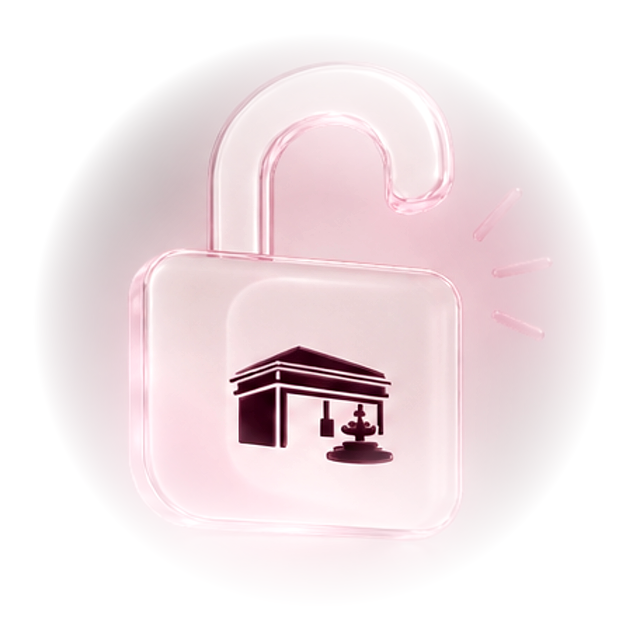
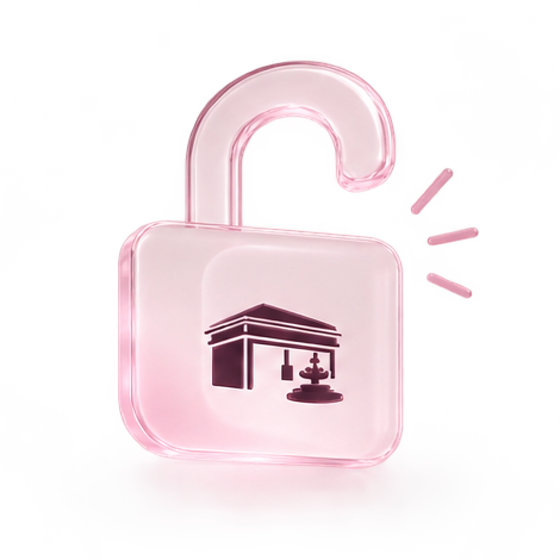
feat: switch the whole screen dark on arrival, and stop mangling the mark
Two corrections.

The dark treatment stopped at the stage: the app bar, the tab rail and the
canvas under the cards all stayed light, so it read as one tall banner
inside a light app rather than as the app changing state. The frame goes
dark now -- bar, rail, screen and cards -- reached through
`:has(.unlocked)` so it cannot touch anything else. It is the only screen
that does this, which is what makes it mean anything. DESIGN.md reserves the
single inverted surface for the folio total; this is a deliberate second,
scoped, on the same licence the accent already has here.

And the mark was ugly, because I had processed it into mud. The render is
lit for a light page -- a bright ground of its own, a dark glyph inside the
glass -- so keying that ground out left a halo, and crushing the midtones to
kill the halo took the life out of the glass with it. It is cut square and
otherwise untouched now, and the CSS rounds and glows it: the ground becomes
an app-icon tile instead of something to fight, which is what the reference
was doing all along.

The lockup is an inline SVG that takes `color`, so the filter aimed at `img`
did nothing to it and the wordmark stayed plum on plum.

Changed region(s): [[0.0911, 0.0911, 0.9107, 0.85], [0.3643, 0.5464, 0.6375, 0.7286]]

diff --git a/src/components/features/guest-app/experiments/experiments.css b/src/components/features/guest-app/experiments/experiments.css
@@ -309,46 +309,82 @@
 .unlocked__hero { margin-bottom: 6px; }
 
 /*
-  The stage: a dark screen with one glow, one graphic, one thing to do.
+  The whole screen changes state.
 
-  DESIGN.md reserves the single inverted surface for the folio total. This is
-  a deliberate second, scoped to this screen alone -- the same licence the
-  accent already has here and nowhere else. A moment of arrival is the one
-  place in a task-first app where the screen is allowed to be the point.
+  Not a dark hero with the app's light canvas carrying on beneath it -- the
+  chrome goes too, so the moment reads as the app switching mode rather than
+  as one tall banner. It is the only screen that does this, which is what
+  makes it mean something.
+
+  DESIGN.md reserves the single inverted surface for the folio total, so this
+  is a deliberate second, and it is scoped to `:has(.unlocked)` so it cannot
+  reach any other screen. Same licence the accent already has here: a moment
+  of arrival is the one place in a task-first app where the screen is allowed
+  to be the point.
 */
+.guest-device:has(.unlocked),
+.guest-screen:has(.unlocked) {
+  background:
+    radial-gradient(84% 46% at 50% 16%, oklch(0.46 0.15 348 / 0.58), transparent 70%),
+    radial-gradient(62% 36% at 82% 4%, oklch(0.58 0.16 338 / 0.3), transparent 72%),
+    linear-gradient(180deg, oklch(0.19 0.028 320), oklch(0.105 0.014 300) 58%);
+}
+/* The bar and the tab rail are outside the screen component, so they are
+   reached by looking down from the frame rather than up from the content. */
+.guest-device:has(.unlocked) .guest-appbar {
+  background: transparent;
+  border-bottom-color: transparent;
+  color: oklch(1 0 0);
+}
+/* The lockup is an inline SVG taking `color`, not an image -- a filter aimed
+   at `img` did nothing to it. */
+.guest-device:has(.unlocked) .guest-brand { color: oklch(1 0 0); }
+.guest-device:has(.unlocked) .guest-appbar .guest-tag,
+.guest-device:has(.unlocked) .guest-appbar [class*='experiment'] {
+  background: oklch(1 0 0 / 0.14);
+  color: oklch(1 0 0);
+}
+.guest-device:has(.unlocked) .guest-bottom-nav {
+  background: oklch(0.105 0.014 300 / 0.92);
+  border-top-color: oklch(1 0 0 / 0.1);
+  color: oklch(1 0 0 / 0.62);
+}
+.guest-device:has(.unlocked) .guest-bottom-nav button { color: oklch(1 0 0 / 0.6); }
+.guest-device:has(.unlocked) .guest-bottom-nav button[aria-current='page'] { color: oklch(1 0 0); }
+
 .unlocked__stage {
   position: relative;
   display: grid;
-  grid-template-rows: 1fr auto auto;
-  gap: 26px;
+  gap: 24px;
   align-content: center;
   justify-items: center;
-  min-height: 78vh;
-  padding: 40px 22px calc(28px + env(safe-area-inset-bottom));
-  margin-bottom: 8px;
-  overflow: hidden;
+  min-height: 62vh;
+  padding: 26px 22px 8px;
   text-align: center;
   color: oklch(1 0 0);
-  background:
-    radial-gradient(86% 58% at 50% 26%, oklch(0.5 0.16 350 / 0.62), transparent 68%),
-    radial-gradient(60% 40% at 78% 8%, oklch(0.62 0.17 340 / 0.34), transparent 70%),
-    linear-gradient(180deg, oklch(0.2 0.03 320), oklch(0.11 0.016 300) 62%);
 }
 
-/* The graphic. No plate: the render is lit for dark and carries its own
-   glow, and its edges are feathered into transparency so the stage shows
-   through rather than a cut-out square sitting on it. */
+/*
+  An app-icon tile, which is what the reference actually shows: a rounded
+  square mark glowing on a dark ground.
+
+  The render is lit for a light page -- it has a bright ground of its own and
+  a dark glyph inside the glass -- so keying that ground out left a muddy
+  halo, and crushing it took the life out of the glass. Rounding the square
+  and glowing it turns the ground into the tile instead of fighting it.
+*/
 .unlocked__mark {
-  display: grid;
-  place-items: center;
-  align-self: end;
-  width: min(300px, 78%);
+  width: min(176px, 46%);
+  aspect-ratio: 1;
+  border-radius: 27%;
+  overflow: hidden;
+  box-shadow:
+    0 26px 64px oklch(0.4 0.17 344 / 0.5),
+    0 0 0 1px oklch(1 0 0 / 0.16);
 }
-.unlocked__art { width: 100%; height: auto; }
+.unlocked__art { display: block; width: 100%; height: auto; }
 
 .unlocked__say { display: grid; gap: 12px; justify-items: center; }
-/* White, not accentStrong: the ground under it is ink now, and the rule the
-   old colour satisfied was about pink failing on a light surface. */
 .unlocked__title {
   margin: 0;
   font-size: 32px;
@@ -361,32 +397,45 @@
 .unlocked__subtitle {
   margin: 0;
   max-width: 32ch;
-  color: oklch(1 0 0 / 0.82);
+  color: oklch(1 0 0 / 0.8);
   font-size: 15px;
   line-height: 1.5;
   text-wrap: pretty;
 }
 
-.unlocked__go { display: grid; gap: 4px; justify-items: center; width: 100%; }
+.unlocked__go { display: grid; gap: 2px; justify-items: center; width: 100%; }
 .unlocked__go .guest-button { width: 100%; }
-/* White pill on the dark ground -- the accent is a light surface colour and
-   would sink into the glow behind it. */
-.guest-button--invert {
-  background: oklch(1 0 0);
-  color: var(--guest-ink);
-  border: 0;
-}
+/* White, because the brand pink is a light surface colour and sinks into the
+   glow behind it. */
+.guest-button--invert { background: oklch(1 0 0); color: var(--guest-ink); border: 0; }
 .guest-button--invert:active { transform: scale(0.985); }
 .unlocked__quiet {
   padding: 12px;
   border: 0;
   background: none;
-  color: oklch(1 0 0 / 0.72);
+  color: oklch(1 0 0 / 0.7);
   font-size: 14px;
   font-weight: 600;
   cursor: pointer;
 }
 .unlocked__quiet:hover { color: oklch(1 0 0); }
+
+/* --- the cards, in the dark ---------------------------------------------- */
+.unlocked .unlocked__card {
+  background: oklch(1 0 0 / 0.055);
+  border: 1px solid oklch(1 0 0 / 0.1);
+  box-shadow: none;
+  color: oklch(1 0 0);
+}
+.unlocked .unlocked__card h2 { color: oklch(1 0 0); }
+.unlocked .unlocked__card-icon { background: oklch(1 0 0 / 0.12); color: oklch(1 0 0); }
+.unlocked .unlocked__open-list li + li { border-top-color: oklch(1 0 0 / 0.1); }
+.unlocked .unlocked__open-copy b { color: oklch(1 0 0); }
+.unlocked .unlocked__open-copy small { color: oklch(1 0 0 / 0.62); }
+.unlocked .unlocked__open-icon { background: oklch(1 0 0 / 0.12); color: oklch(1 0 0); }
+.unlocked .unlocked__rows dt { color: oklch(1 0 0 / 0.62); }
+.unlocked .unlocked__rows dd { color: oklch(1 0 0); }
+.unlocked .unlocked__note { color: oklch(1 0 0 / 0.58); }
 
 .unlocked__card {
   display: grid;
